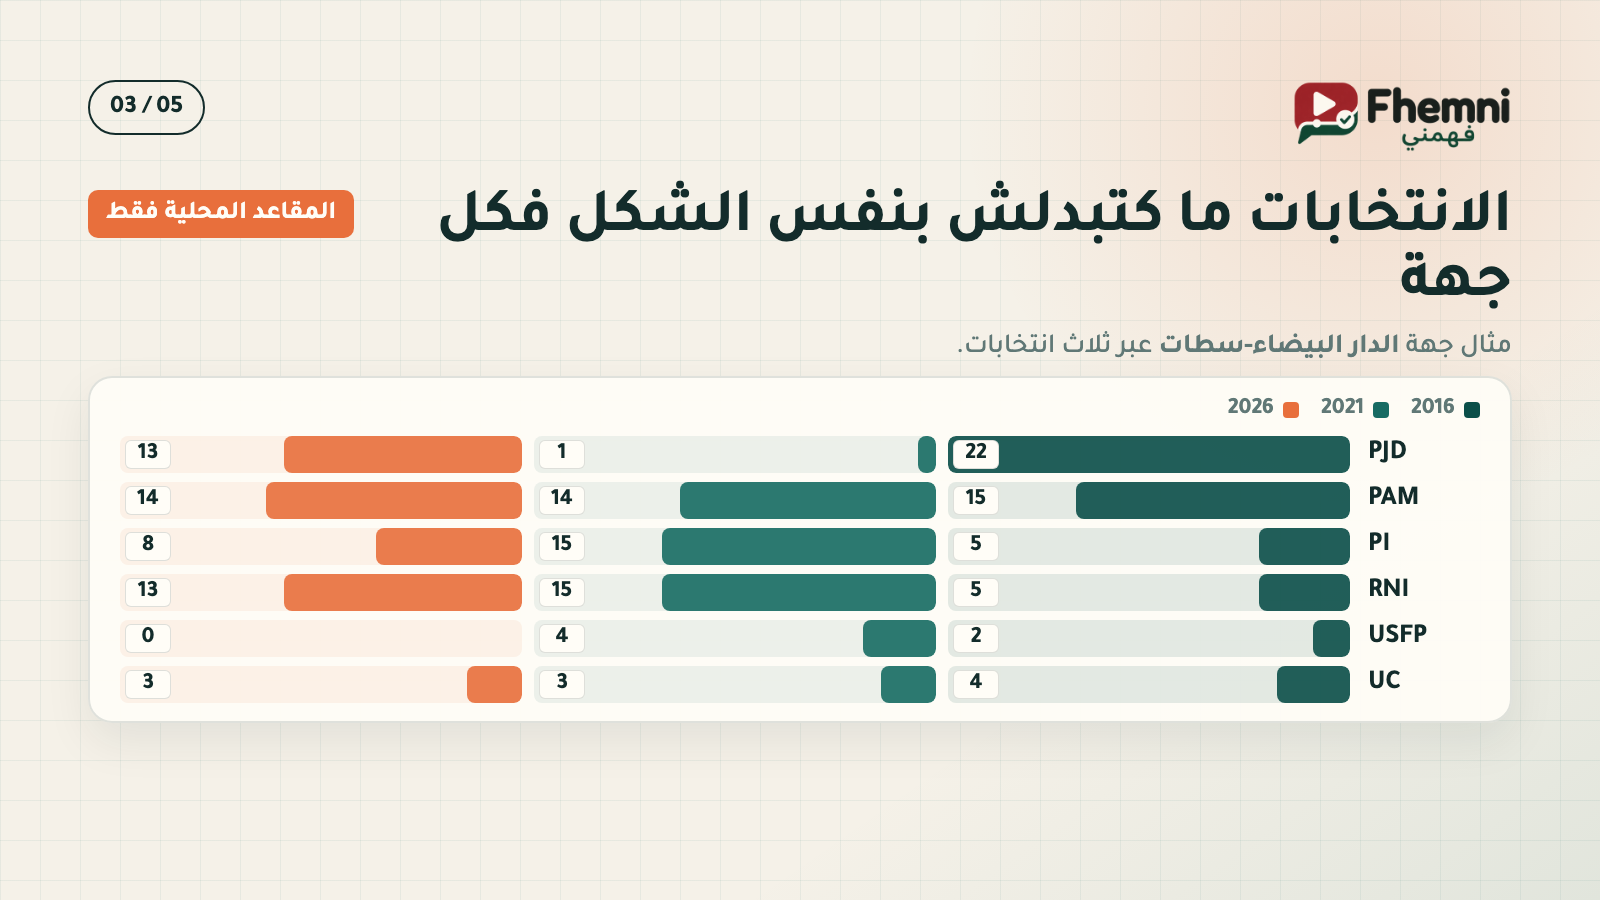
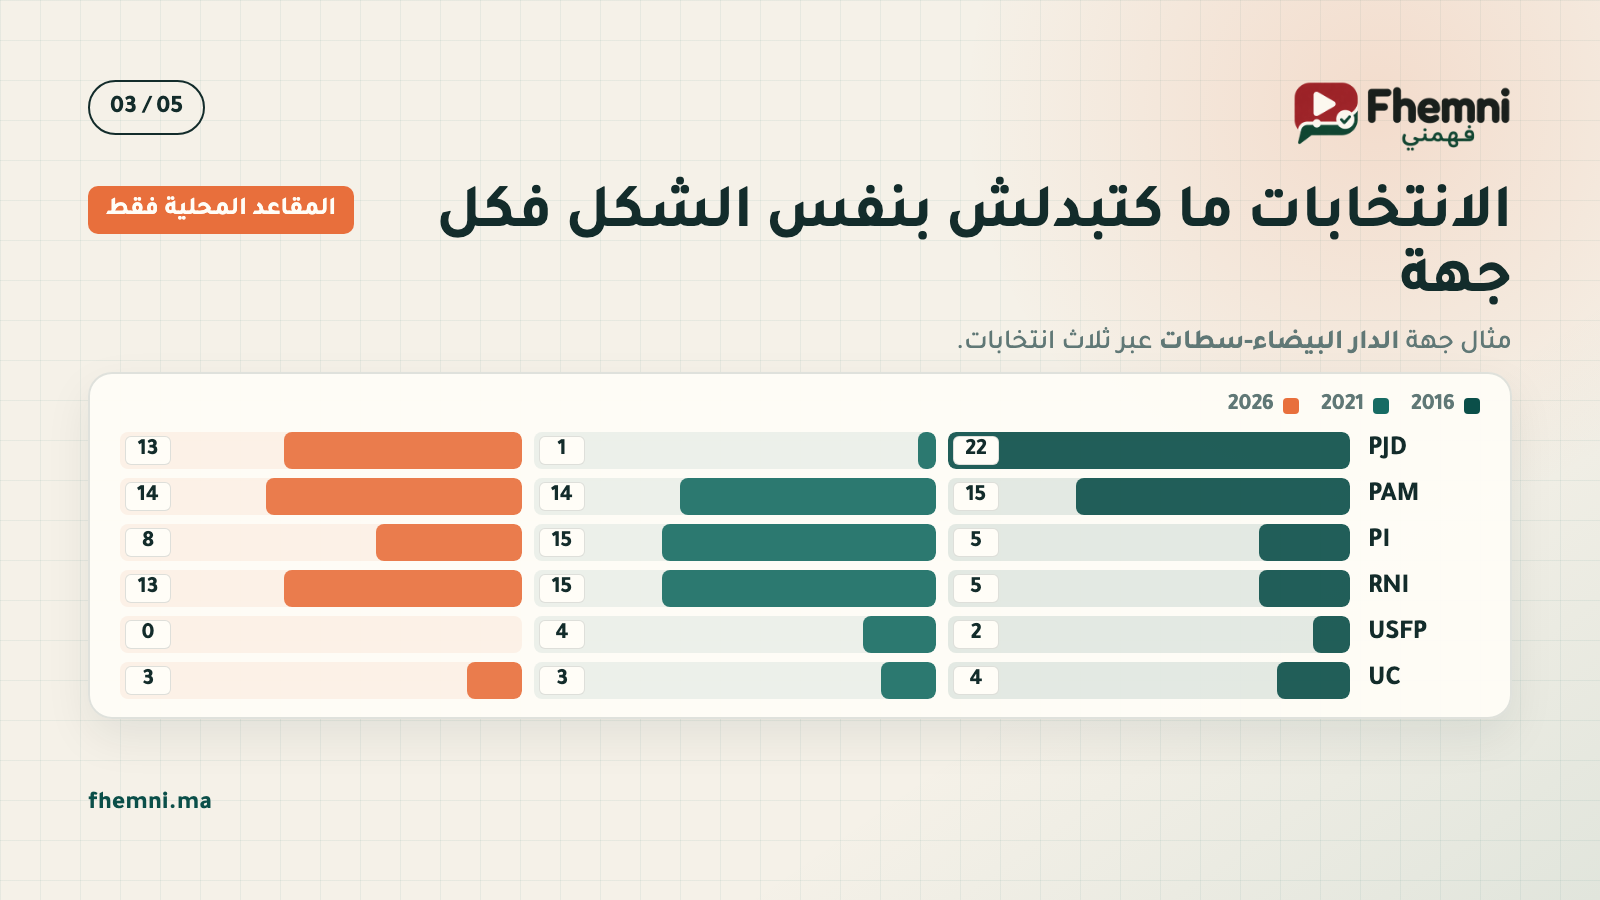
fix: add campaign website signatures

diff --git a/docs/social/election-history-launch/campaign.html b/docs/social/election-history-launch/campaign.html
@@ -19,6 +19,7 @@
                 <span class="asset-index"><bdi>01</bdi> / <bdi>05</bdi></span>
             </header>
             <section class="campaign-body" data-campaign-body></section>
+            <div class="campaign-signature"><bdi>fhemni.ma</bdi></div>
         </div>
     </article>
 
@@ -32,6 +33,7 @@
                 <span class="asset-index"><bdi>02</bdi> / <bdi>05</bdi></span>
             </header>
             <section class="campaign-body" data-campaign-body></section>
+            <div class="campaign-signature"><bdi>fhemni.ma</bdi></div>
         </div>
     </article>
 
@@ -45,6 +47,7 @@
                 <span class="asset-index"><bdi>03</bdi> / <bdi>05</bdi></span>
             </header>
             <section class="campaign-body" data-campaign-body></section>
+            <div class="campaign-signature"><bdi>fhemni.ma</bdi></div>
         </div>
     </article>
 
@@ -58,6 +61,7 @@
                 <span class="asset-index"><bdi>04</bdi> / <bdi>05</bdi></span>
             </header>
             <section class="campaign-body" data-campaign-body></section>
+            <div class="campaign-signature"><bdi>fhemni.ma</bdi></div>
         </div>
     </article>
 
@@ -71,6 +75,7 @@
                 <span class="asset-index"><bdi>05</bdi> / <bdi>05</bdi></span>
             </header>
             <section class="campaign-body" data-campaign-body></section>
+            <div class="campaign-signature"><bdi>fhemni.ma</bdi></div>
         </div>
     </article>
 

diff --git a/src/test/js/election-history-social-page.test.js b/src/test/js/election-history-social-page.test.js
@@ -63,6 +63,19 @@ test('every card contains the Fhemni logo without a visible source footer', () =
     assert.equal(count(html, 'class="campaign-attribution"'), 0);
 });
 
+test('X cards carry one bottom-left website signature while Story keeps one CTA', () => {
+    const html = readCampaignFile('campaign.html');
+    const script = readCampaignFile('campaign.js');
+    const css = readCampaignFile('campaign.css');
+    const story = html.slice(html.indexOf('id="campaign-story"'));
+
+    assert.equal(count(html, 'class="campaign-signature"'), 5);
+    assert.equal(count(html, '<bdi>fhemni.ma</bdi>'), 5);
+    assert.equal(count(story, 'campaign-signature'), 0);
+    assert.equal(count(script, "appendBdi(action, 'fhemni.ma')"), 1);
+    assert.match(css, /\.campaign-signature\s*\{[^}]*justify-self:\s*left;[^}]*color:\s*var\(--deep-teal\);[^}]*font-size:\s*25px;[^}]*font-weight:\s*700;[^}]*direction:\s*ltr;/s);
+});
+
 test('overview gives the full content area to the three-election comparison', () => {
     const script = readCampaignFile('campaign.js');
 

diff --git a/docs/social/election-history-launch/campaign.css b/docs/social/election-history-launch/campaign.css
@@ -96,8 +96,8 @@ body {
     z-index: 1;
     display: grid;
     height: 100%;
-    grid-template-rows: 92px 1fr;
-    gap: 18px;
+    grid-template-rows: 92px minmax(0, 1fr) 30px;
+    gap: 14px;
 }
 
 .campaign-header,
@@ -130,6 +130,16 @@ body {
 .campaign-body {
     min-width: 0;
     min-height: 0;
+}
+
+.campaign-signature {
+    align-self: end;
+    justify-self: left;
+    color: var(--deep-teal);
+    font-size: 25px;
+    font-weight: 700;
+    direction: ltr;
+    letter-spacing: 0.3px;
 }
 
 .headline-row {
